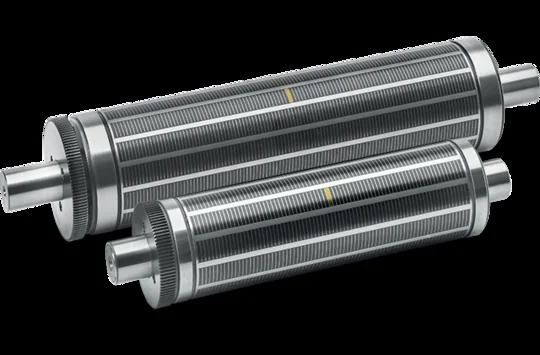
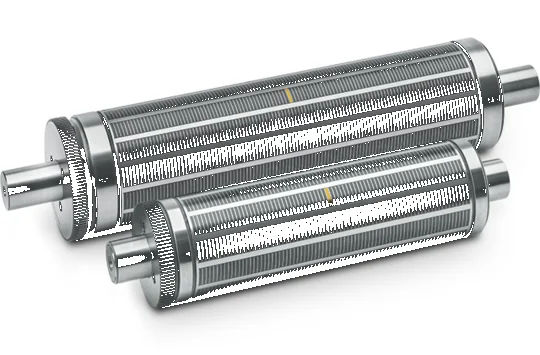
+

diff --git a/static/css/pages/home.css b/static/css/pages/home.css
@@ -201,9 +201,11 @@
 
 .about__stat-label {
   display: block;
-  font-size: 13px;
-  color: rgba(255, 255, 255, 0.7);
-  margin-top: 6px;
+  font-size: clamp(14px, 2vw, 16px);
+  font-weight: var(--fw-semibold);
+  color: rgba(255, 255, 255, 0.88);
+  margin-top: 8px;
+  line-height: 1.35;
 }
 
 @media (max-width: 768px) {

diff --git a/static/css/components/card.css b/static/css/components/card.css
@@ -226,6 +226,12 @@
   flex-shrink: 0;
   aspect-ratio: 4 / 3;
   height: auto;
+  background: var(--bg-card);
+}
+
+.product-card--home .product-card__image img {
+  object-fit: contain;
+  object-position: center;
 }
 
 .product-card--home .product-card__image--multi {